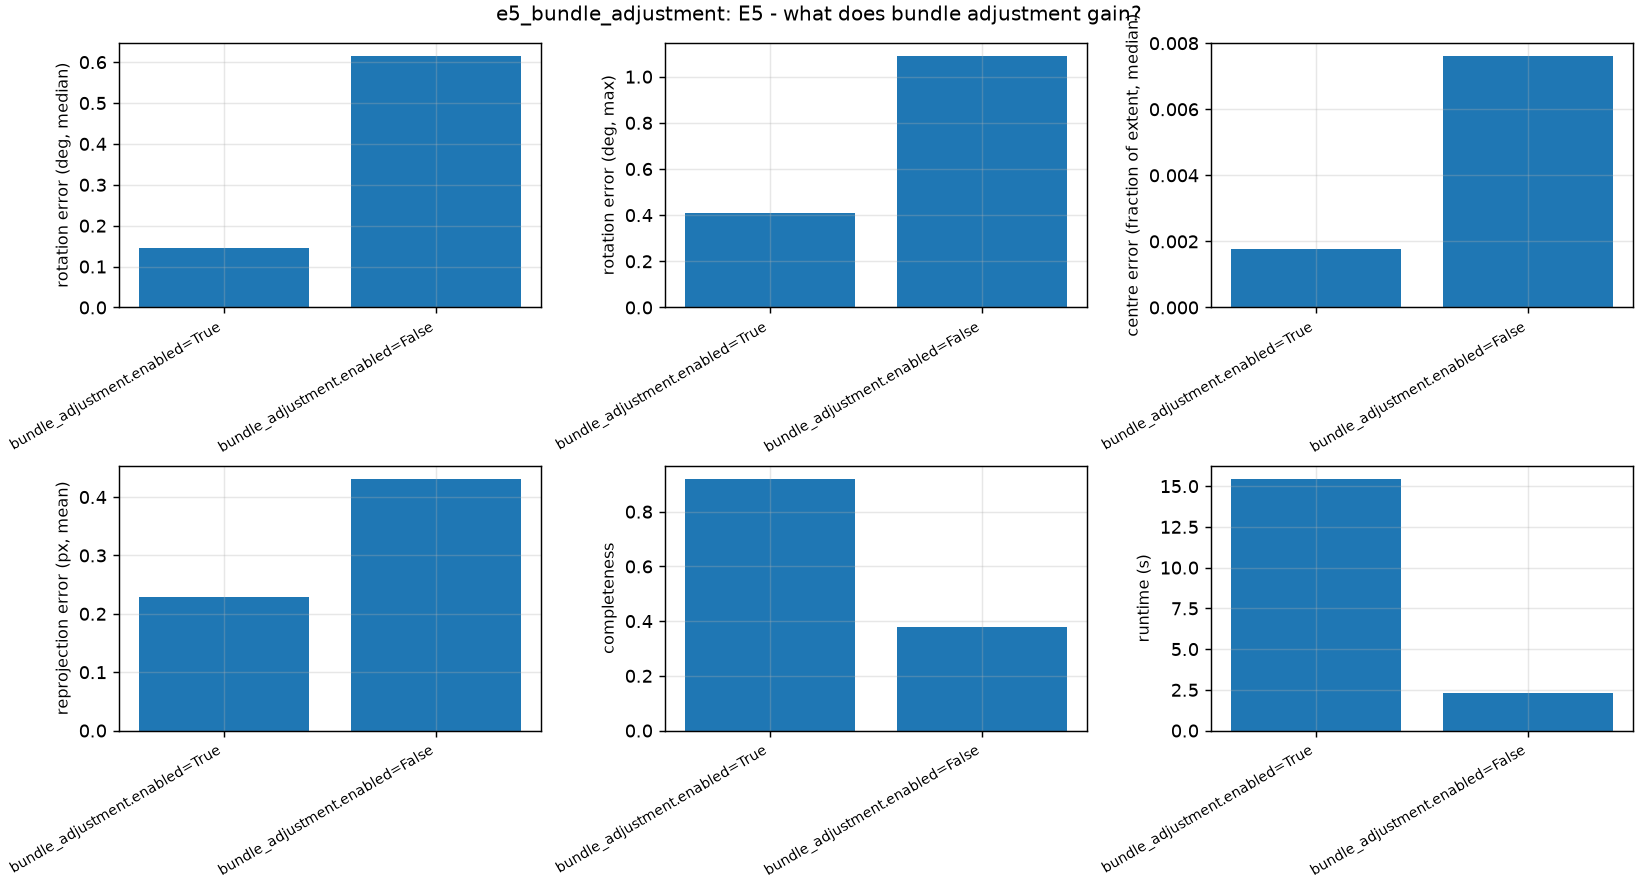
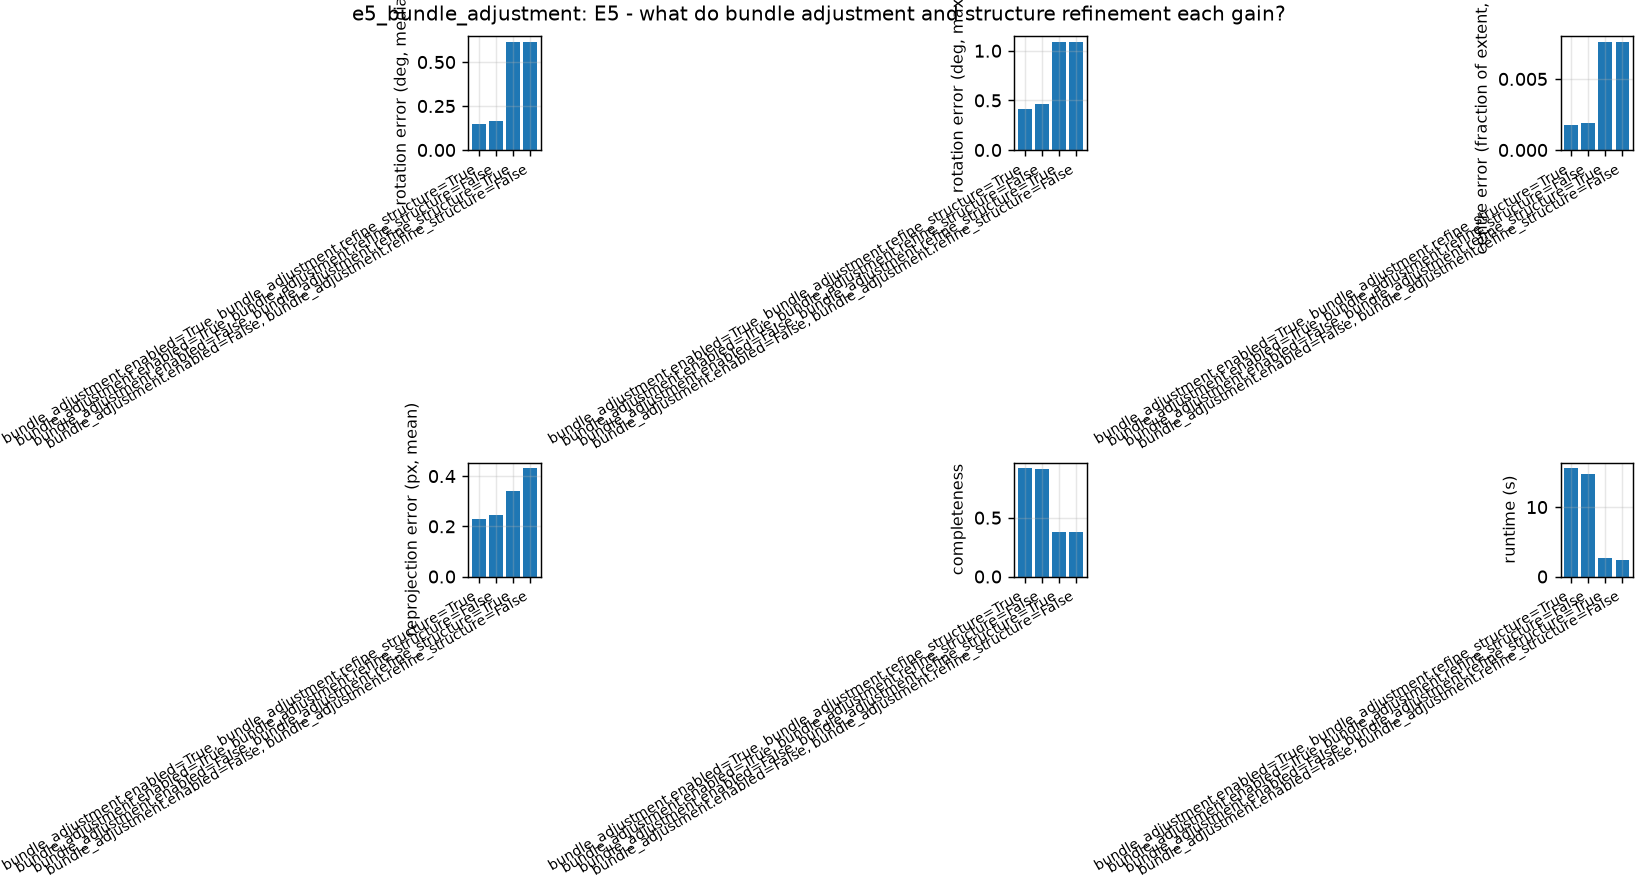
refactor: separate structure refinement from bundle adjustment and update evaluation reports

diff --git a/src/evaluation/reports.py b/src/evaluation/reports.py
@@ -62,13 +62,13 @@ def make_report(experiment_dir: str | Path) -> list[Path]:
         if (path := directory / run["directory"] / "reprojection_errors.npy").is_file()
     }
     if errors:
-        files.append(_reprojection_figure(errors, title, directory / "reprojection.png"))
+        files.append(_reprojection_figure(errors, meta["name"], directory / "reprojection.png"))
     return files
 
 
 def _reprojection_figure(errors: dict[str, np.ndarray], title: str, path):
     """One step histogram (share of observations) of the final reprojection errors per
-    setting, over a common range."""
+    setting, over a common range; the last bin collects everything beyond it."""
     from matplotlib import colormaps
     from matplotlib.figure import Figure
 
@@ -82,7 +82,7 @@ def _reprojection_figure(errors: dict[str, np.ndarray], title: str, path):
         median = float(np.median(e)) if len(e) else float("nan")
         ax.hist(np.minimum(e, limit), bins=bins, weights=weights, histtype="step", lw=1.6,
                 color=colour, label=f"{label} (median {median:.2f} px)")  # fmt: skip
-    ax.set_xlabel("reprojection error (px)")
+    ax.set_xlabel(f"reprojection error (px; last bin: ≥ {limit:.2g} px)")
     ax.set_ylabel("share of observations")
     ax.set_title(f"Reprojection error - {title}", fontsize=10)
     ax.legend(fontsize=7)

diff --git a/docs/experiments.md b/docs/experiments.md
@@ -87,14 +87,22 @@ Subsets evenly spaced **in file-name order** (`dataset.max_images`). templeRing'
 
 Neither detector reaches the 8000-feature cap: SIFT's contrast threshold keeps ~870 features per image on the smooth plaster, ORB's FAST detector ~3500. **RQ4:** ORB yields 3× more points but shorter tracks and less reliable ones — 4× the pose error, nearly twice the reprojection error and much lower completeness (0.57 vs 0.92) despite the denser cloud; its binary descriptors are less distinctive and its keypoints less precisely localised. It is also 4× slower overall, because the extra features make matching (11 s vs 0.2 s) and bundle adjustment (50 s vs 14 s) more expensive. SIFT is the right default; ORB's only advantage on this data is raw point count. (Phase 2 measured ORB failing entirely on blurred images, where SIFT still found 265 features.)
 
-### E5 — bundle adjustment
+### E5 — bundle adjustment and structure refinement
 
-| bundle adjustment | rotation error (median / max) | centre error | reprojection | completeness | metric scale error | runtime |
-|---|---|---|---|---|---|---|
-| on | **0.15° / 0.41°** | **0.18 %** | **0.23 px** | **0.92** | −0.7 % | 15.4 s |
-| off | 0.62° / 1.09° | 0.76 % | 0.43 px | 0.38 | −5.6 % | 2.3 s |
+Both switched independently (`bundle_adjustment.enabled`, `bundle_adjustment.refine_structure`); refinement = re-attach track keypoints that fit, drop observations beyond 2 px, re-triangulate, after every registration.
 
-Bundle adjustment (with the structure refinement that follows it) cuts pose errors 4×, halves the reprojection error and raises completeness from 0.38 to 0.92 — without it, small PnP errors accumulate around the ring. It costs nearly 90 % of the runtime (13.5 of 15.4 s).
+| bundle adjustment | refinement | rotation error (median / max) | centre error | reprojection (mean) | observations > 2 px | completeness | runtime |
+|---|---|---|---|---|---|---|---|
+| on | on | **0.15° / 0.41°** | **0.18 %** | **0.23 px** | **0** | **0.92** | 15.6 s |
+| on | off | 0.17° / 0.47° | 0.19 % | 0.25 px | 0.52 % (max 5.7 px) | 0.92 | 14.8 s |
+| off | on | 0.62° / 1.09° | 0.76 % | 0.34 px | 0 | 0.38 | 2.7 s |
+| off | off | 0.62° / 1.09° | 0.76 % | 0.43 px | 3.82 % (max 4.0 px) | 0.38 | 2.3 s |
+
+![E5 results](images/e5_bundle_adjustment.png)
+
+**Bundle adjustment does the work:** it cuts pose errors 4× and raises completeness from 0.38 to 0.92 — without it, small PnP errors accumulate around the ring — at nearly 90 % of the runtime. **Refinement is a cleaning step:** it removes every observation beyond 2 px (without it, 0.5 % remain with bundle adjustment and 3.8 % without — mostly PnP links accepted at 4 px), which lowers the reprojection error and, by giving bundle adjustment cleaner input, trims pose errors by ~12 % (0.17° → 0.15° median, 0.47° → 0.41° max). Alone it cannot move cameras, so without bundle adjustment the poses and completeness are unchanged.
+
+![E5 reprojection errors](images/e5_reprojection.png)
 
 ### Metric scale from one measured distance
 
@@ -112,7 +120,7 @@ E6 (our sparse reconstruction vs COLMAP's sparse and dense reconstructions on th
 | **Wrong focal length** | Every image registers, reprojection error stays ~0.25 px, but completeness falls to 0.44 (−5 %) and 0.08 (−20 %) | A wrong `K` stretches depth against width — a distortion no similarity removes and bundle adjustment (fixed `K`) cannot absorb; the internal diagnostics do not notice | E3, figure below |
 | **No calibration at all** | 20° rotation error, 24 % centre error, completeness 0 | Fallback `f` = 768 px vs the true 1520 px (−49 %); the essential-matrix path is skipped, and poses from `F` with a wrong `K` are badly biased | E3 |
 | **ORB on low texture** | 3× the points but 4× the pose error, short tracks | less distinctive binary descriptors and less precise keypoints | E4 |
-| **No bundle adjustment** | pose errors 4× larger, completeness 0.38 | small PnP errors accumulate around the ring | E5 |
+| **No bundle adjustment** | pose errors 4× larger, completeness 0.38 (with or without refinement) | small PnP errors accumulate around the ring; refinement cleans observations but cannot move cameras | E5 |
 | **Undetectable wrong matches** | ~1 % of deliberately shifted keypoints survive in the final model | a shift along the epipolar line of a 2–3-view track leaves no reprojection error | `tests/test_incremental.py` |
 
 ![E3 failure case](images/e3_calibration_failure.png)

diff --git a/docs/ROADMAP.md b/docs/ROADMAP.md
@@ -386,7 +386,12 @@ Every figure/table in the report regenerates from committed configs with one com
 
 > **Status — done, M3 reached.** New `docs/methodology.md` (maths per stage, design choices with the measurements behind them, ours-vs-external table); `docs/architecture.md` gained the final data-flow diagrams and stage table; `docs/experiments.md` gained figures, a failure-cases section (with a calibration-failure figure) and RQ5 as future work; figures committed under `docs/images/`. README: results at a glance with screenshots, a five-command reproduction block, updated status, structure, testing, limitations (now backed by measurements) and future work. Presentation: a 16-slide deck with speaker notes (problem → geometry → architecture → workflow → results → RQ1–RQ4 → limitations → conclusions, demo commands), kept as a claude.ai artifact. Final pass:
 > - **Fresh clone verified:** clone → `uv venv` + install → `verify_setup.py` → `pytest` (313 passed) → download → `reconstruct` (20 s cold) → `evaluate_against_ground_truth.py`, reproducing the documented numbers exactly.
-> - **Code review** (standards + spec, `a36ed7c..HEAD`): no hard standards violations (all thresholds in config). Fixed: a missing ≥ 3-camera guard in `evaluate_against_ground_truth.py`; `pipeline.filter_landmarks` renamed `filter_scene` (it clashed with `incremental.filter_landmarks`). Documentation corrected after the review: templeRing's file order is not angular order (the sequence sweeps ~540° with jumps), so E1's spacing is now reported as measured median/max angular gaps; the one-distance metric scale is a consistency check, not an independent accuracy measure; `inlier_ratio_mean` averages verified pairs only. Left as known issues: duplicated `as_problem` + reprojection-stats code in three callers; `reconstruct` runs also write the two-view `sparse.ply`/`cameras.json` next to `multi_view.ply`; no per-pair match counts, translation-direction errors or reprojection histograms in experiment reports; E5 switches off structure refinement together with bundle adjustment.
+> - **Code review** (standards + spec, `a36ed7c..HEAD`): no hard standards violations (all thresholds in config). Fixed: a missing ≥ 3-camera guard in `evaluate_against_ground_truth.py`; `pipeline.filter_landmarks` renamed `filter_scene` (it clashed with `incremental.filter_landmarks`). Documentation corrected after the review: templeRing's file order is not angular order (the sequence sweeps ~540° with jumps), so E1's spacing is now reported as measured median/max angular gaps; the one-distance metric scale is a consistency check, not an independent accuracy measure; `inlier_ratio_mean` averages verified pairs only. The remaining review findings were cleaned up afterwards:
+>   - one home for reconstruction statistics: `Reconstruction.reprojection_errors`, `Reconstruction.unregistered`, `Landmarks.track_lengths` (used by the CLI, experiments and the evaluation script);
+>   - `reconstruct` writes the multi-view cloud under the spec's names (`point_clouds/sparse.ply`, `filtered.ply`, `camera_poses/cameras.json`) and no longer the two-view files (`save_cloud`'s `cameras_name` removed);
+>   - experiments record raw and final matches per pair, save each run's `reprojection_errors.npy`, and reports draw `reprojection.png` per experiment; translation direction stays a pairwise metric (`evaluate_against_ground_truth.py`), multi-view uses rotation + centre error (README §12);
+>   - `bundle_adjustment.refine_structure` switches structure refinement independently of bundle adjustment; E5 is now a 2×2 grid — BA does the work (4× pose error, completeness 0.38 → 0.92), refinement removes every observation beyond 2 px and trims pose errors ~12 %. E1–E4 reproduce identically.
+> Still open, judgement calls: colours are uint8 on `Landmarks` but float in `[0, 1]` elsewhere; the reconstruction functions pass the same five arguments around (a state object would bundle them).
 
 ### Tasks
 - `docs/architecture.md` (final diagram), `docs/methodology.md` (math + design choices, what is ours vs external), `docs/experiments.md` (results & discussion, failure cases, limitations).

diff --git a/docs/methodology.md b/docs/methodology.md
@@ -89,15 +89,15 @@ $$\min_{\{R_c, t_c\}, \{X_p\}} \sum_{(c,p)} \rho\!\left(\left\lVert \pi\!\left(K
 - **Gauge:** a reconstruction is defined up to a similarity (7 DoF). The first camera is held fixed (6 DoF). The scale is left free during optimisation — pinning one translation coordinate instead creates a curved valley the solver zig-zags along — and restored afterwards exactly, by scaling about the fixed camera so the next camera keeps its distance. That scaling changes no projection.
 - **Schedule:** a local adjustment after every registration (the newest 5 cameras and the points they see free), a global one every 5 registrations, and at the end. The cost tolerance is 1e-6 relative (as in Ceres); 1e-8 took ~15× longer for < 0.01°.
 
-E5: bundle adjustment cuts pose errors 4× and raises completeness from 0.38 to 0.92, at ~90 % of the runtime.
+E5: bundle adjustment cuts pose errors 4× and raises completeness from 0.38 to 0.92, at ~90 % of the runtime; the structure refinement of §9 (switchable separately, `bundle_adjustment.refine_structure`) removes every observation beyond 2 px and trims pose errors a further ~12 %.
 
-## 9. Structure refinement after each adjustment (ours)
+## 9. Structure refinement after each registration (ours)
 
 1. **Complete tracks:** attach keypoints of a landmark's track (in registered images) that now reproject within 2 px — mostly links PnP rejected at registration.
 2. **Filter observations, not points:** drop single observations that reproject farther than 2 px or lie behind their camera, then landmarks left with < 2 views or a triangulation angle < 1.5°. At triangulation one bad observation rejects a whole point, which grows stricter with track length; after adjustment a long track keeps its landmark.
 3. **Re-triangulate** tracks left without a landmark.
 
-The final global adjustment alternates with this refinement until nothing changes (at most 3 rounds). Tested: with 5 % of keypoints shifted 3.5 px (inside PnP's 4 px, outside triangulation's 2 px) every final observation is within 2 px; without refinement errors reach 4.2 px.
+It runs after every registration (after its adjustment, when bundle adjustment is on), and the final global adjustment alternates with it until nothing changes (at most 3 rounds). It can be switched off independently (`bundle_adjustment.refine_structure`). Tested, with or without bundle adjustment: with 5 % of keypoints shifted 3.5 px (inside PnP's 4 px, outside triangulation's 2 px) every final observation is within 2 px; without refinement the shifted links stay in.
 
 ## 10. Point-cloud filtering and export
 

diff --git a/README.md b/README.md
@@ -3,7 +3,7 @@
 > Reconstruct the 3D structure of a stationary real-world object or scene from overlapping photographs, using classical geometric computer vision: feature correspondence, epipolar geometry, Structure from Motion (SfM), triangulation, and bundle adjustment.
 
 ![status](https://img.shields.io/badge/status-complete%20%C2%B7%20M3-brightgreen)
-![tests](https://img.shields.io/badge/tests-313%20passing-brightgreen)
+![tests](https://img.shields.io/badge/tests-315%20passing-brightgreen)
 ![python](https://img.shields.io/badge/python-3.12-informational)
 ![opencv](https://img.shields.io/badge/OpenCV-5.0-green)
 ![open3d](https://img.shields.io/badge/Open3D-0.20-orange)
@@ -501,7 +501,7 @@ Report only metrics meaningful for the implementation tier (e.g. no camera-regis
 | E2 Matching thresholds | Ratio 0.6–0.9, mutual on/off | Images, detector | RQ2 |
 | E3 Calibration | Calibrated vs focal ±5/10/20 % vs guessed `K` (templeRing has no EXIF) | Images, detector | RQ3 |
 | E4 Detector | SIFT vs ORB | Resolution, pairs, RANSAC settings | RQ4 |
-| E5 Bundle adjustment | On vs off | Everything else | quality gain |
+| E5 Bundle adjustment × structure refinement | Each on / off | Everything else | quality gain |
 | E6 Baseline | Ours vs COLMAP sparse (and dense) — *not run: needs COLMAP* | Same image set | RQ5 |
 
 **Without ground truth**, reprojection error and completeness are internal diagnostics only — they do not establish absolute 3D accuracy. With reference geometry, align first (Umeyama similarity or ICP) and then compute Chamfer / completeness.
@@ -521,7 +521,7 @@ Report only metrics meaningful for the implementation tier (e.g. no camera-regis
 | **Integration** | Full pipeline and every CLI command on rendered scenes (`tests/render.py`); real photos via `scripts/evaluate_against_ground_truth.py` on templeRing | Completes, writes intermediates, outputs reload, poses match ground truth |
 | **Visual** | Matches, epipolar lines, trajectories, clouds | Manual inspection checklist each phase |
 
-313 tests run in ~17 s (`pytest -q`). Test-first for geometry: write the synthetic test, watch it fail, implement, watch it pass. Automated tests cannot prove a point cloud looks like the object — visual inspection is a required step.
+315 tests run in ~18 s (`pytest -q`). Test-first for geometry: write the synthetic test, watch it fail, implement, watch it pass. Automated tests cannot prove a point cloud looks like the object — visual inspection is a required step.
 
 ---
 
